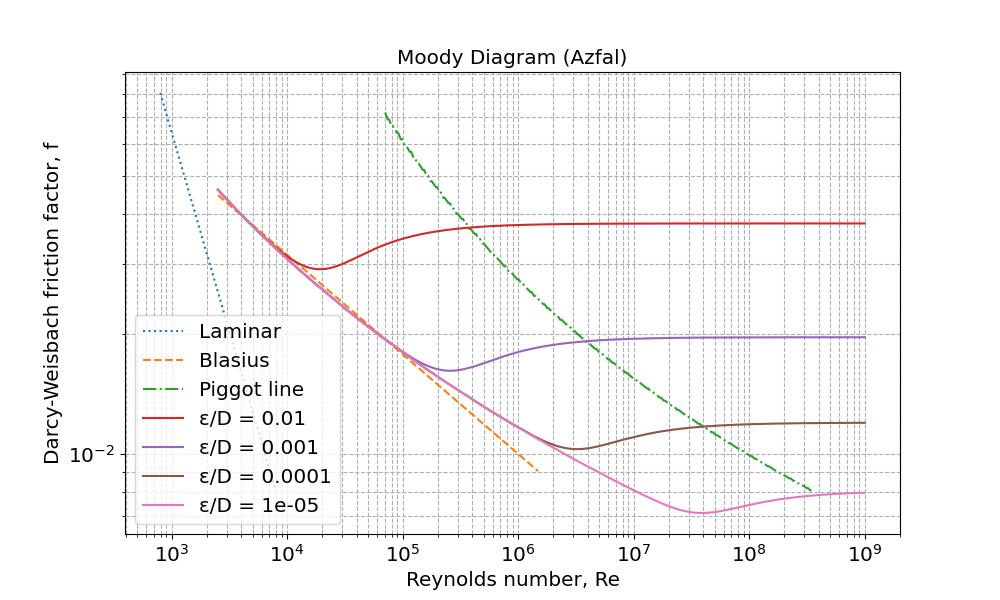
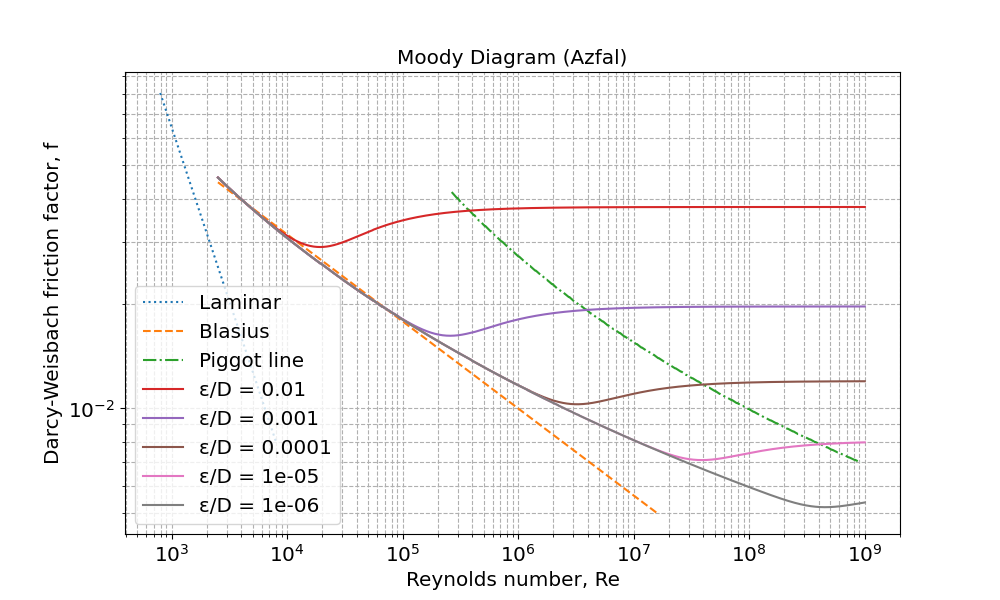
smoother pipe, wider range

diff --git a/moody.py b/moody.py
@@ -34,7 +34,7 @@ def laminar(reynolds):
     
 def blasius(reynolds):
     f = (0.316 / (reynolds**0.25))
-    if f > 0.009 and reynolds < 1e10 : # to get diagram the right shape
+    if f > 0.005 and reynolds < 1e10 : # to get diagram the right shape
         return f
     
     return None
@@ -115,7 +115,8 @@ def azfal(reynolds, relative_roughness):
         f_solution = f_new
     return f_solution
 
-rr_piggot = np.logspace(-1.3, -5, 100) # roughness values between 0.01 and 0.00001
+# roughness range for piggot line
+rr_piggot = np.logspace(-1.3, -6.1, 100) # roughness values between 0.01 and 0.00001
 
 def piggot_point(rr):
     """The Piggot line is where the Colebrook curve flattens out as a function of Re
@@ -143,10 +144,10 @@ def smooth_piggot(points):
 
     i, f = find_next_valid()  
     if not i:
-        print("All None")
+        # print("All None")
         return points # give up: a list entirely of None values
     
-    print(f"First OK at {i}")
+    # print(f"First OK at {i}")
     j = i
     while j < len(points) - 1:
         j = j+1
@@ -155,7 +156,7 @@ def smooth_piggot(points):
             continue
         k, f = find_next_valid(j)  
         if not k:
-           print(f"All None from {j} to end ")
+           # print(f"All None from {j} to end ")
            return points # No more valid values left
         # print(f"at {j} invalid   found next valid {k} {f:.4f}")
         v = j-1
@@ -170,7 +171,7 @@ def smooth_piggot(points):
             #print(f"  Averaging: {j} to {k}  = {q}/{gap} {points[v]:.5f} {points[k]:.5f}     {points[m]:.5f}")
         j = k
     
-    print(f"Done all")
+    # print(f"Done all")
     return points
 
 def piggot():
@@ -179,7 +180,9 @@ def piggot():
     for rr in rr_piggot:
         if pp := piggot_point(rr):
             f, re = pp
-            points[re] = f
+            if f < 0.043:
+                # do not ahve the Piggot lie too far above the roughest pipe
+                points[re] = f
 
     piggot_list = []
     #last_valid = None
@@ -241,12 +244,6 @@ def plot_diagram(title, filename, plot="loglog", fff=colebrook):
 # - - -- - - - -- - - - -- - - - -- - - - -- - - - -- - - - -- - - - -- - - - -- - 
 # Define the Reynolds number range and relative roughness values
 # only need 10 points for the straight line
-reynolds_laminar = np.logspace(2.9, 3.9, 5) # 10^2.7 = 501, 10^3.4 = 2512
-reynolds = np.logspace(3.4, 9.0, 500) # 10^7.7 = 5e7
-relative_roughness_values = [0.01, 0.001, 0.0001, 0.00001]
-
-fp = piggot()
-
 params = {'legend.fontsize': 'x-large',
           'figure.figsize': (10, 6),
          'axes.labelsize': 'x-large',
@@ -254,6 +251,11 @@ params = {'legend.fontsize': 'x-large',
          'xtick.labelsize':'x-large',
          'ytick.labelsize':'x-large'}
 plt.rcParams.update(params)
+
+reynolds_laminar = np.logspace(2.9, 3.9, 5) # 10^2.7 = 501, 10^3.4 = 2512
+reynolds = np.logspace(3.4, 9.0, 1000) # 10^7.7 = 5e7
+relative_roughness_values = [0.01, 0.001, 0.0001, 0.00001,  0.000001]
+fp = piggot()
 
 plot_diagram('Moody Diagram (Colebrook)', 'moody_colebrook.png', plot="loglog")
 plot_diagram('Moody Diagram (Azfal)', 'moody_azfal.png', plot="loglog", fff=azfal)
